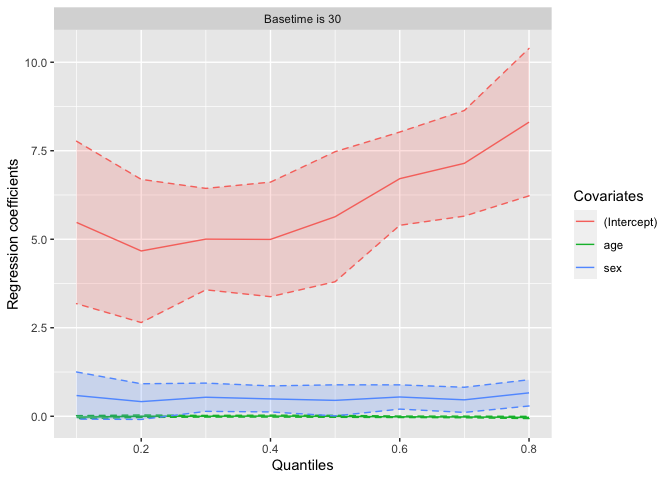
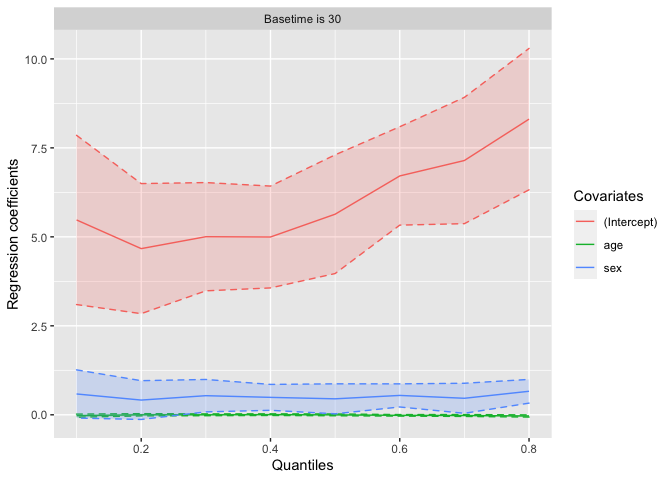
Update readme

diff --git a/README.md b/README.md
@@ -48,13 +48,46 @@ There are two examples
 +     dat$status <- 1 * (dat$Time0 < dat$censoring)
 +     subset(dat, select = c(Time, status, X))
 + }
+> 
 > set.seed(1)
 > dat <- data.gen(200)
-> library(qrismb)
 > fm <- Surv(Time, status) ~ X
-> fit1 <- qrismb(fm, data = dat, t0 = 1, Q = 0.5, ne = 200, "smooth", "rq")
-> fit2 <- qrismb(fm, data = dat, t0 = 1, Q = 0.5, ne = 200, "nonsmooth", "noeffect")
-> fit3 <- qrismb(fm, data = dat, t0 = 1, Q = 0.5, ne = 200, "iterative", c(2,1))
+> fit1 <- qrismb(fm, data = dat, t0 = 1, Q = 0.5, ne = 200, "smooth", "pmb", c(1,1))
+> fit2 <- qrismb(fm, data = dat, t0 = 1, Q = 0.5, ne = 200, "nonsmooth", "fmb", "rq")
+> fit3 <- qrismb(fm, data = dat, t0 = 1, Q = 0.5, ne = 200, "iterative", "pmb", "rq")
+> summary(fit1)
+Call:
+qrismb(formula = fm, data = dat, t0 = 1, Q = 0.5, ne = 200, method = "smooth", 
+    se = "pmb", init = c(1, 1))
+
+qrismb Estimator
+            estimate std.Error z.value   p.value    
+(Intercept)   1.2395    0.0779  15.922 < 2.2e-16 ***
+X             0.8525    0.1220   6.990 < 2.2e-16 ***
+---
+Signif. codes:  0 '***' 0.001 '**' 0.01 '*' 0.05 '.' 0.1 ' ' 1
+> summary(fit2)
+Call:
+qrismb(formula = fm, data = dat, t0 = 1, Q = 0.5, ne = 200, method = "nonsmooth", 
+    se = "fmb", init = "rq")
+
+qrismb Estimator
+            estimate std.Error z.value   p.value    
+(Intercept)   1.2528    0.0992  12.626 < 2.2e-16 ***
+X             0.8100    0.1302   6.221 < 2.2e-16 ***
+---
+Signif. codes:  0 '***' 0.001 '**' 0.01 '*' 0.05 '.' 0.1 ' ' 1
+> summary(fit3)
+Call:
+qrismb(formula = fm, data = dat, t0 = 1, Q = 0.5, ne = 200, method = "iterative", 
+    se = "pmb", init = "rq")
+
+qrismb Estimator
+            estimate std.Error z.value   p.value    
+(Intercept)   1.2398    0.0717  17.285 < 2.2e-16 ***
+X             0.8530    0.1188   7.179 < 2.2e-16 ***
+---
+Signif. codes:  0 '***' 0.001 '**' 0.01 '*' 0.05 '.' 0.1 ' ' 1
 > 
 > coef(fit1)
 (Intercept)           X 
@@ -62,7 +95,7 @@ There are two examples
 > summary(fit2)
 Call:
 qrismb(formula = fm, data = dat, t0 = 1, Q = 0.5, ne = 200, method = "nonsmooth", 
-    init = "noeffect")
+    se = "fmb", init = "rq")
 
 qrismb Estimator
             estimate std.Error z.value   p.value    
@@ -71,10 +104,14 @@ X             0.8100    0.1302   6.221 < 2.2e-16 ***
 ---
 Signif. codes:  0 '***' 0.001 '**' 0.01 '*' 0.05 '.' 0.1 ' ' 1
 > vcov(fit3)
-            (Intercept)           X
-(Intercept)  0.01722485 -0.07026059
-X           -0.07026059 27.25328957
+             (Intercept)            X
+(Intercept)  0.005144076 -0.005910375
+X           -0.005910375  0.014115022
+> 
+> plot(fit1)
 ```
+
+![](README_files/figure-gfm/example-1.png)<!-- -->
 
 ``` r
 > ## 2. real data example
@@ -86,33 +123,53 @@ X           -0.07026059 27.25328957
 > ## tidy up the data
 > lung2$status <- lung2$status - 1
 > lung2$sex <- lung2$sex - 1
-> library(qrismb)
-> set.seed(1)
+> 
 > fm <- Surv(time, status) ~ age + sex
-> fit1 <- qrismb(fm, data = lung2, t0 = 0, Q = 0.5, ne = 200, "iterative", "rq")
-> fit2 <- qrismb(fm, data = lung2, t0 = 30, Q = 0.5, ne = 200, "nonsmooth", c(1,0,1))
-> fit3 <- qrismb(fm, data = lung2, t0 = 100, Q = 0.5, ne = 200,"smooth", "noeffect")
-> coef(fit1)
-(Intercept)         age         sex 
-5.206477586 0.006945976 0.182889952 
-> summary(fit2)
+> fit1 <- qrismb(fm, data = lung2, t0 = 0, Q = 0.5, ne = 200, "iterative", "pmb", "rq")
+> fit2 <- qrismb(fm, data = lung2, t0 = 30, Q = 0.5, ne = 200, "nonsmooth", "fmb", c(1, 0, 1))
+> fit3 <- qrismb(fm, data = lung2, t0 = 100, Q = 0.5, ne = 200,"smooth", "pmb", "rq")
+> 
+> summary(fit1)
 Call:
-qrismb(formula = fm, data = lung2, t0 = 30, Q = 0.5, ne = 200, 
-    method = "nonsmooth", init = c(1, 0, 1))
+qrismb(formula = fm, data = lung2, t0 = 0, Q = 0.5, ne = 200, 
+    method = "iterative", se = "pmb", init = "rq")
 
 qrismb Estimator
             estimate std.Error z.value p.value    
-(Intercept)   5.6362    0.9068   6.215  <2e-16 ***
-age          -0.0015    0.0136  -0.108  0.9142    
-sex           0.4489    0.1949   2.304  0.0212 *  
+(Intercept)   6.1730    0.6035  10.228  <2e-16 ***
+age          -0.0095    0.0091  -1.038  0.2991    
+sex           0.4885    0.1646   2.967  0.0030 ** 
 ---
 Signif. codes:  0 '***' 0.001 '**' 0.01 '*' 0.05 '.' 0.1 ' ' 1
-> vcov(fit3)
-            (Intercept)           age           sex
-(Intercept)  6.05215483 -0.0949605456 -0.0644246628
-age         -0.09496055  0.0015012139 -0.0007793163
-sex         -0.06442466 -0.0007793163  0.4841417760
+> summary(fit2)
+Call:
+qrismb(formula = fm, data = lung2, t0 = 30, Q = 0.5, ne = 200, 
+    method = "nonsmooth", se = "fmb", init = c(1, 0, 1))
+
+qrismb Estimator
+            estimate std.Error z.value p.value    
+(Intercept)   5.6362    0.9262   6.085  <2e-16 ***
+age          -0.0015    0.0142  -0.103  0.9183    
+sex           0.4489    0.2089   2.148  0.0317 *  
+---
+Signif. codes:  0 '***' 0.001 '**' 0.01 '*' 0.05 '.' 0.1 ' ' 1
+> summary(fit3)
+Call:
+qrismb(formula = fm, data = lung2, t0 = 100, Q = 0.5, ne = 200, 
+    method = "smooth", se = "pmb", init = "rq")
+
+qrismb Estimator
+            estimate std.Error z.value p.value    
+(Intercept)   8.6285    2.3845   3.619  0.0003 ***
+age          -0.0601    0.0377  -1.596  0.1104    
+sex           1.8121    0.7050   2.570  0.0102 *  
+---
+Signif. codes:  0 '***' 0.001 '**' 0.01 '*' 0.05 '.' 0.1 ' ' 1
+> 
+> plot(fit2)
 ```
+
+![](README_files/figure-gfm/example2-1.png)<!-- -->
 
 ## Reference
 
